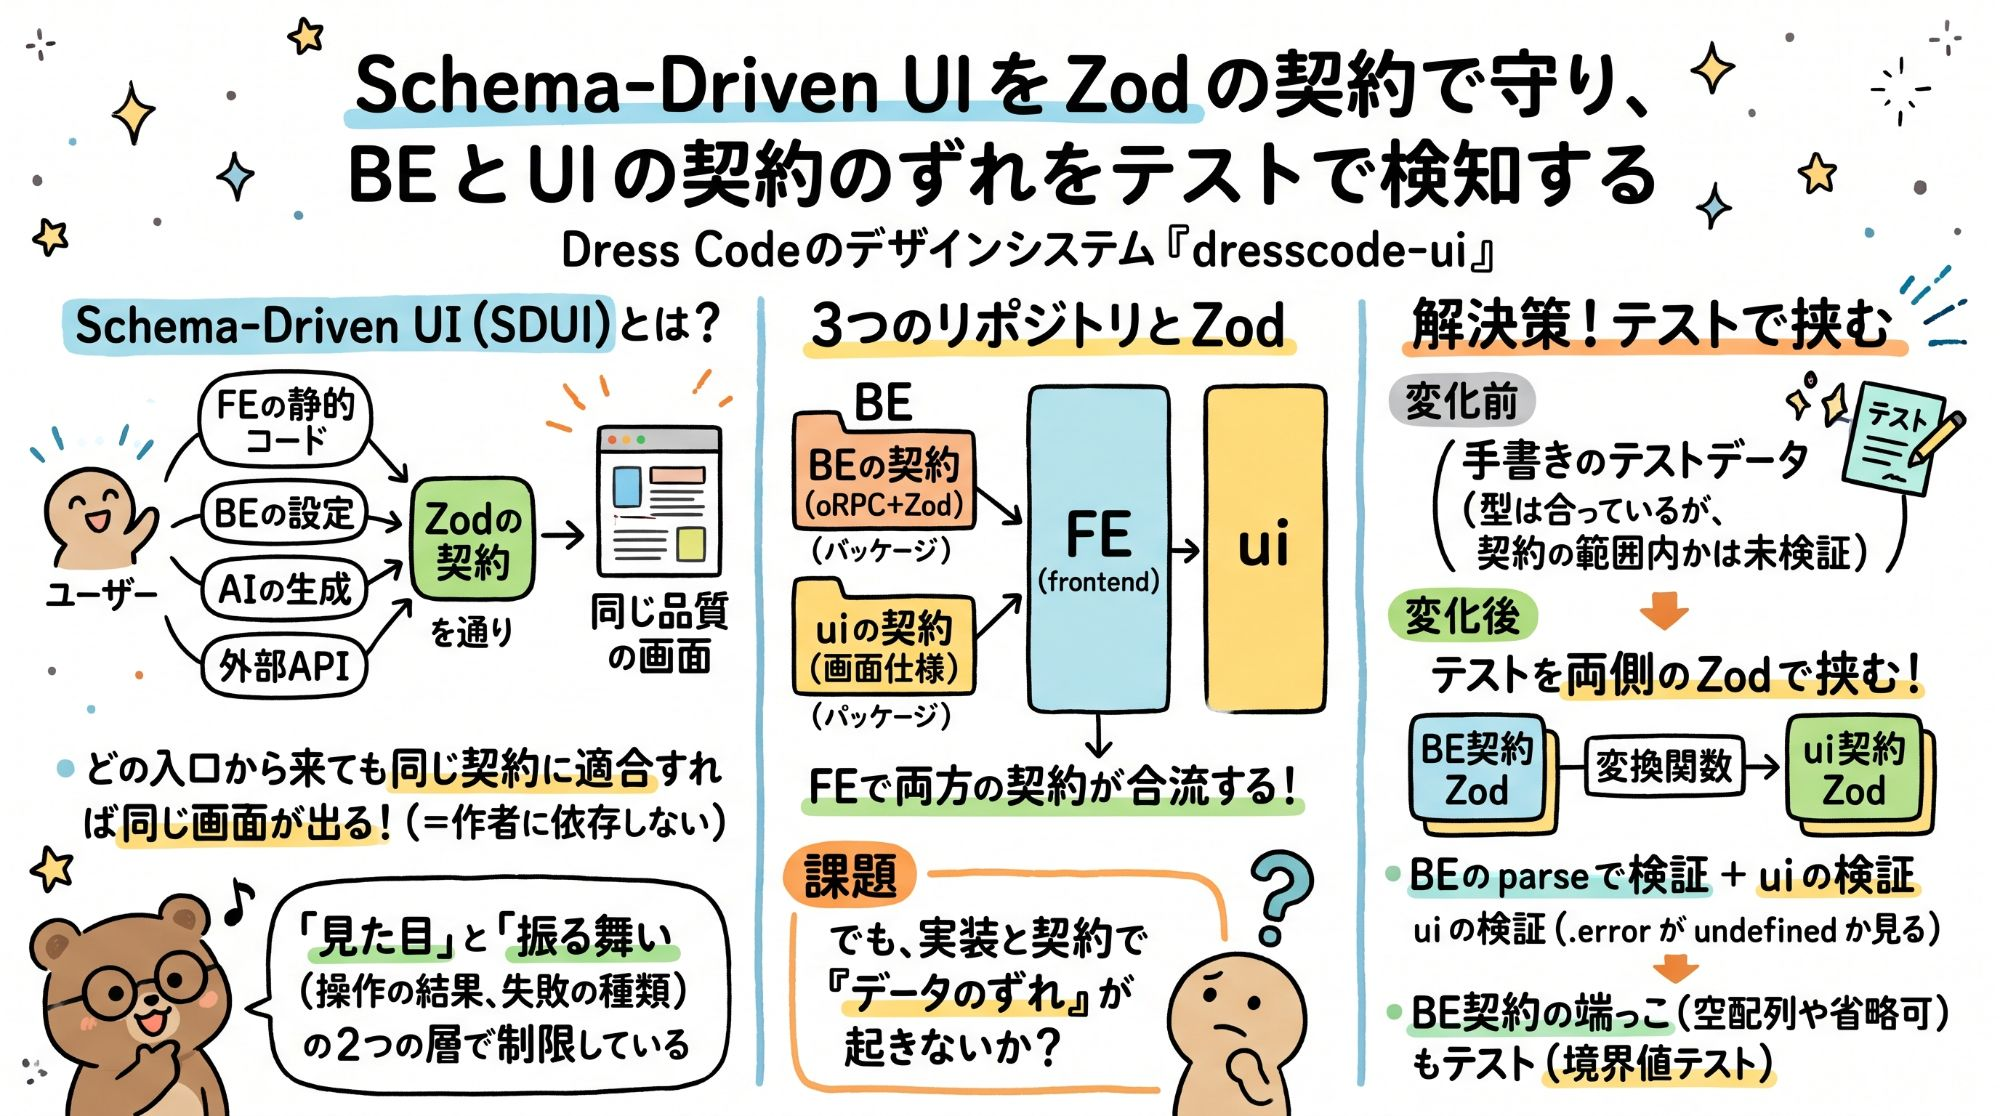
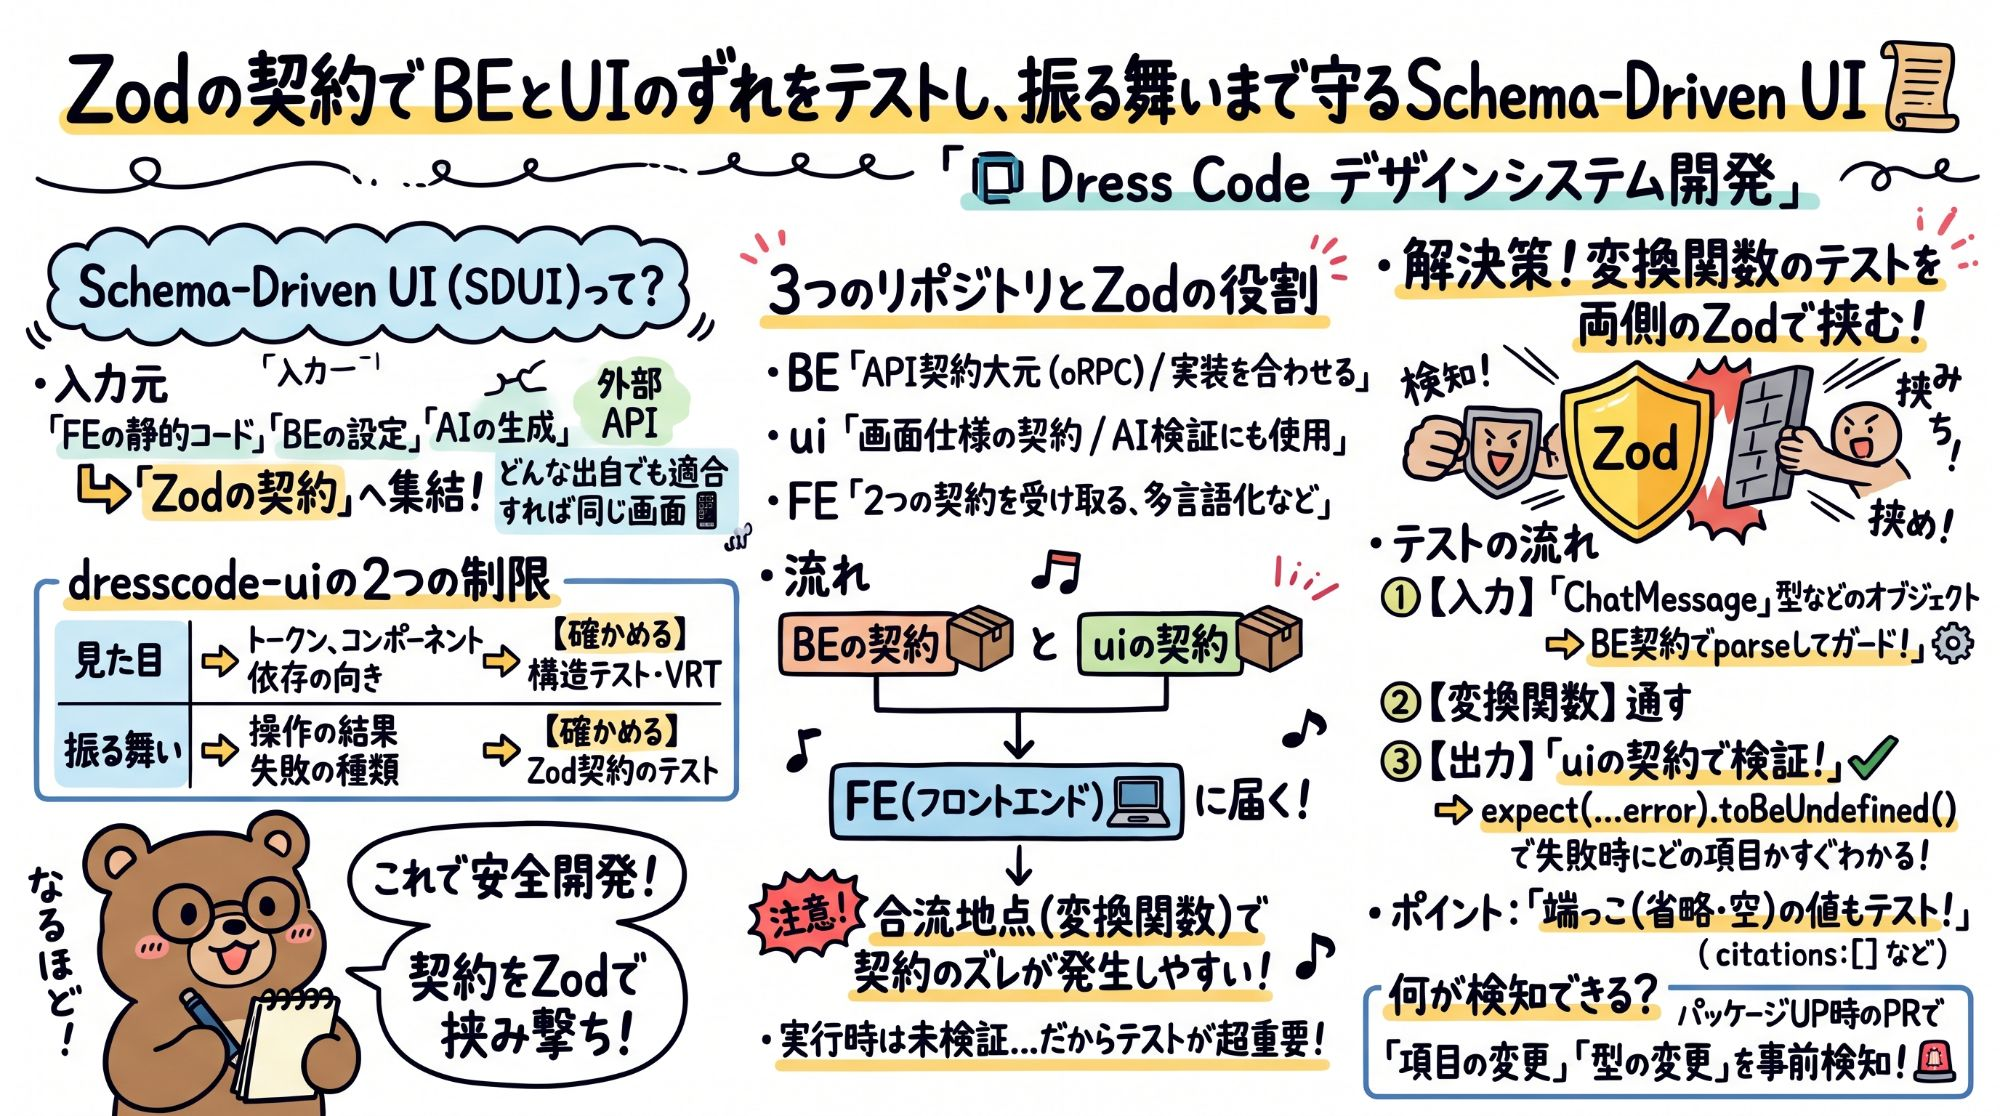
docs(blog): SDUI 記事のタイトルに振る舞いまで守ることを入れる
- タイトルを「Zod の契約で BE と UI のずれをテストし、振る舞いまで守る Schema-Driven UI」に変える
- アイキャッチ画像を新しいタイトルに合わせた画像に差し替える

diff --git a/articles/fe01d8baae2aa8.md b/articles/fe01d8baae2aa8.md
@@ -1,5 +1,5 @@
 ---
-title: 'Schema-Driven UI を Zod の契約で守り、BE と UI の契約のずれをテストで検知する'
+title: 'Zod の契約で BE と UI のずれをテストし、振る舞いまで守る Schema-Driven UI'
 emoji: '📜'
 type: 'tech' # tech: 技術記事 / idea: アイデア
 topics: ['zod', 'typescript', 'frontend', 'designsystem', 'test']
